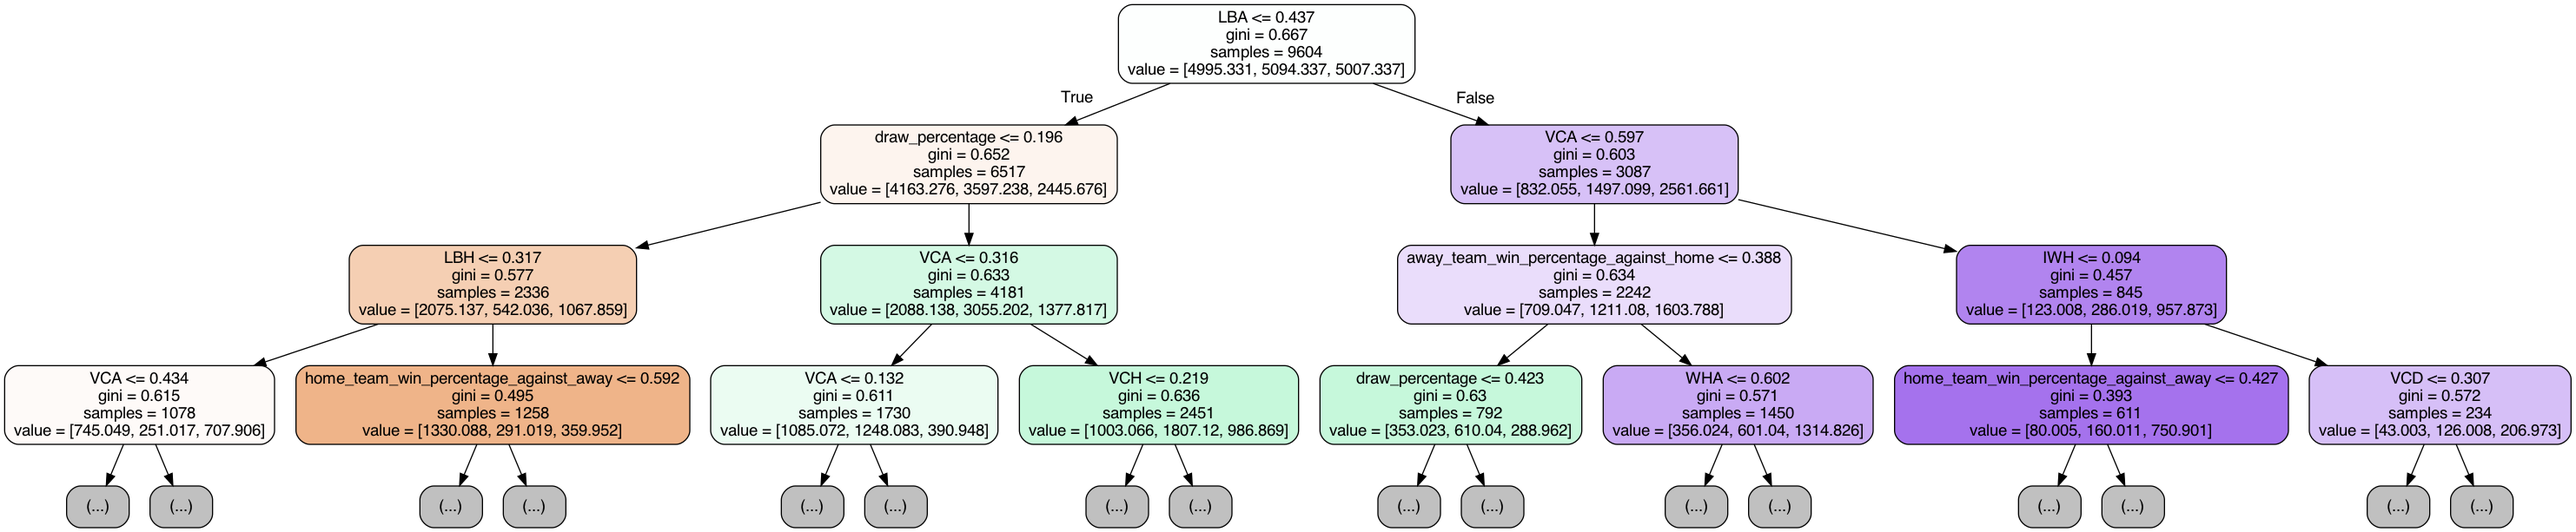
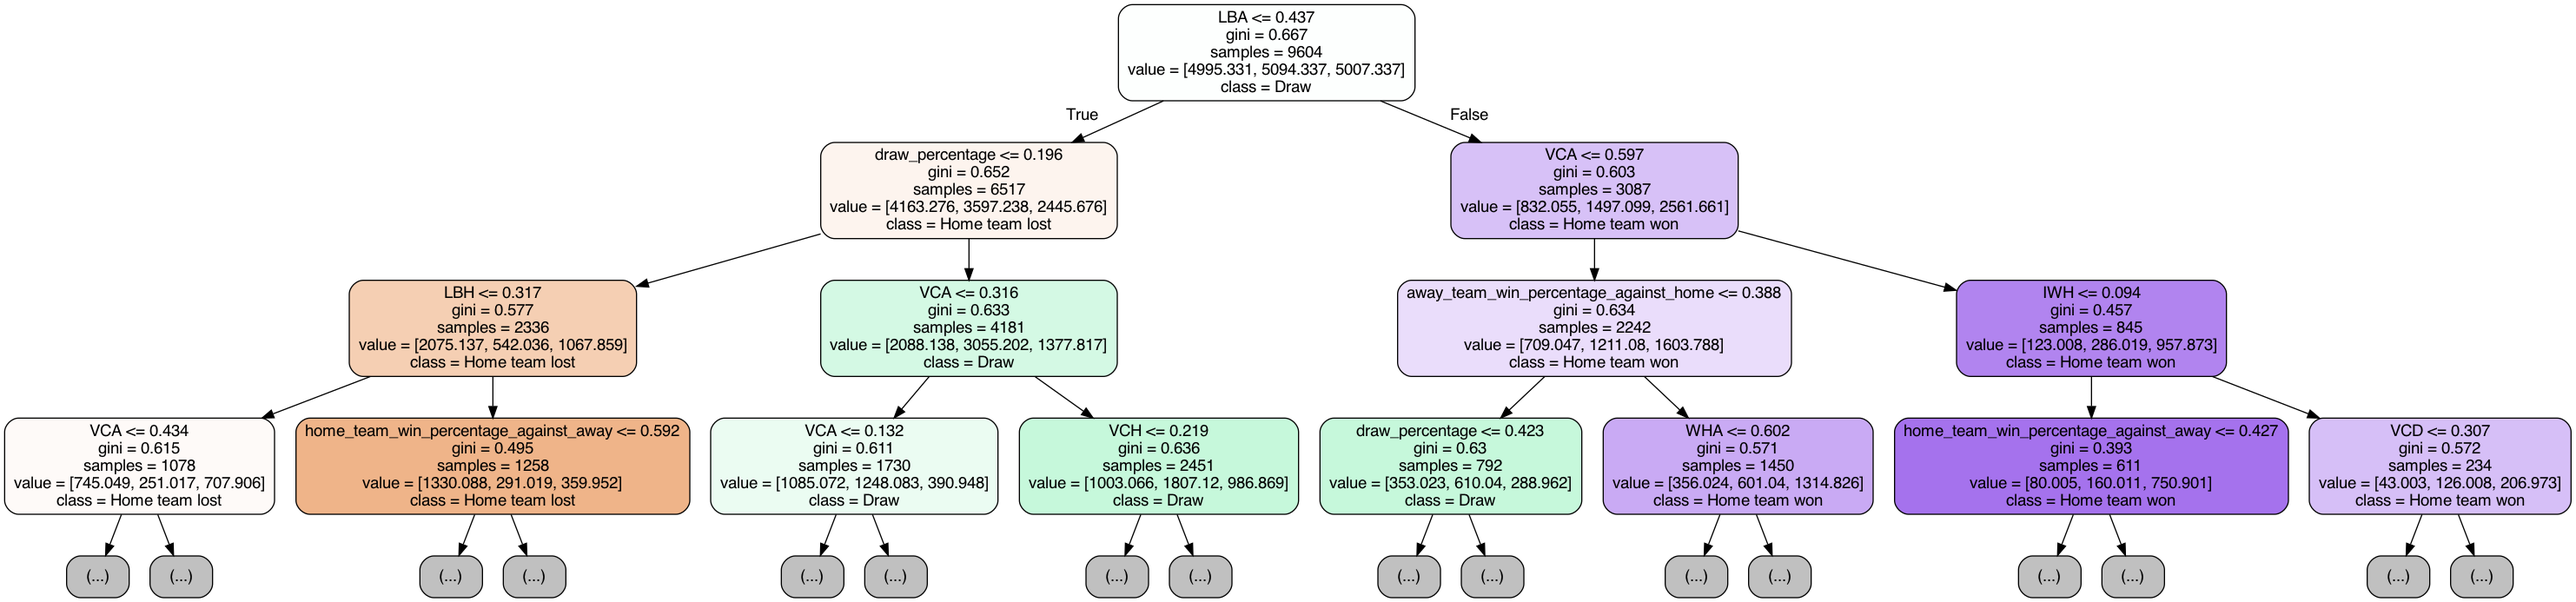
Add RF images to blog post

diff --git a/blog_post.md b/blog_post.md
@@ -94,12 +94,24 @@ The accuracy on the test set was 52.57% and the corresponding confusion matrix i
 
 # Neural Network vs. Random Forest (baseline)
 
-As it was mentioned above the initial neural network model achieved 52-53% level of accuracy and that was because it predicted everything as home team winning. In addition to the problems in our neural network, part of that was also due to the skewness of the data that we trained the model with. To give the reader a better understanding then almost 50% of the instances in the train set were labelled as “home team won” and the remaining half were distributed as “home team lost” (30%) and “draw” (20%). Because of this skewness, the model was much more inclined to predicting that the home team won which led to good accuracy as whilst splitting the data into the test set it was also more likely that matches with “home team won” ended up in the test set. As it was stated in the data pre-processing chapter we used up-sampling (oversampling) to combat this issue. This way the distribution of the labels in the train dataset was even thus removing the predisposition to predicting “home team won”.
+As it was mentioned above the initial neural network model achieved 52-53% level of accuracy and that was because it predicted everything as “home team winning”. In addition to the problems in our neural network, part of that was also due to the skewness of the data that we trained the model with. To give the reader a better understanding then almost 50% of the instances in the train set were labelled as “home team won” and the remaining half were distributed as “home team lost” (30%) and “draw” (20%). Because of the skewness, the model was much more inclined to predicting that the home team won which led to good accuracy because while splitting the data into the test and train set, it was also more likely that matches with “home team won” ended up in the test set. As it was stated in the data pre-processing chapter we used up-sampling (oversampling) to combat this issue. This way the distribution of the labels in the train dataset were even and thus removing the predisposition to predicting “home team won”.
 
-With the skewed data, the accuracies of our classifiers were 52% for the neural network and 54% for the random forest (200 trees in the forest). After sampling the data, the neural network performance dropped but the accuracy of random forest went higher. With tree size of 200 in a forest and tree nodes being expanded until all leaves contain less than 2 samples, test accuracy for the random forest is around 57% and 58% when using 1000 trees. As for the neural network the best accuracy that we saw was ~ 53% but more often it would range from 45 – 50% which is worse than just predicting that home team is going to win.
+With the skewed data, the accuracies of our classifiers were 52% for the neural network and 52% for the random forest (200 trees in the forest). After sampling the data, the neural network performance dropped a bit, but the accuracy of random forest went higher. With tree size of 200 and tree nodes being expanded until all leaves contain less than 2 samples, test accuracy for the random forest was around 57% and 58% when using 1000 trees. The best accuracy observed for the random forest was ~ 60%. As for the neural network the best accuracy that we saw was ~ 53% but more often it would range between 45 – 50% which is about the same or worse than just predicting that the home team is going to win.
+
+To visualize one of the decision trees in the forest we have added a visualization of a decision tree with maximum depth of 3 (otherwise the decision tree is unreadable).
+
+<img src='images/random_forest_decision_tree.png'>
+
+
+The confusion matrix of the random forest:
+
+
+<img src='images/confusion_matrix_random_forest.png'>
+
 
 
 In conclusion in our comparison Random Forest is superior to our neural network when it comes to predicting football results. This conclusion also appears to be shared more often in the world of Machine Learning. 
+
 
 
 # Betting
